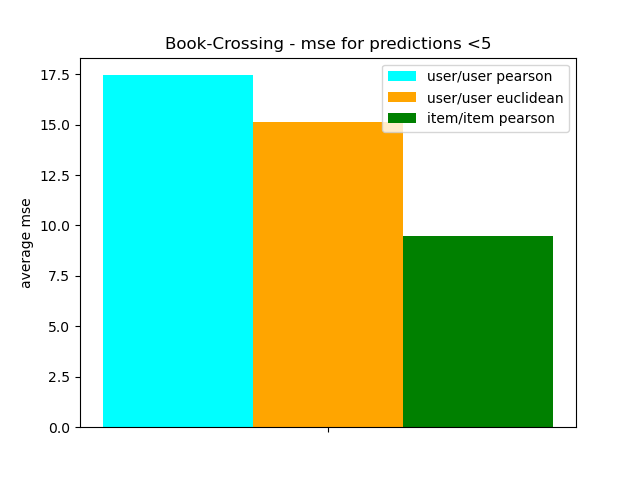
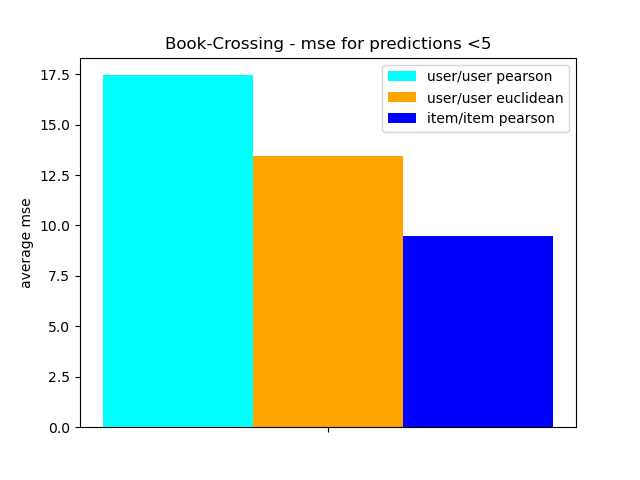
grafics

Changed region(s): [[0.625, 0.4688, 0.875, 0.9062], [0.375, 0.2188, 0.6562, 0.3438]]

diff --git a/create_plots.py b/create_plots.py
@@ -46,23 +46,6 @@ def main():
         plt.title('MovieLens - MAE distribution')
         plt.show()
 
-        x = np.arange(len(results_b[0][0].values[:, 0]))
-        plt.bar(x-width, results_b[0][0].values[:, 1], width, color='cyan')
-        plt.bar(x,       results_b[1][0].values[:, 1], width, color='orange')
-        plt.bar(x+width, results_b[2][0].values[:, 1], width, color='green')
-        plt.xticks(x, results_b[0][0].values[:, 0])
-        plt.legend(["user/user pearson", "user/user euclidean", "item/item pearson"])
-        plt.title('Book-Crossing')
-        plt.show()
-        x = np.arange(len(results_b[0][1].values[:, 0]))
-        plt.bar(x-width, results_b[0][1].values[:, 1], width, color='cyan')
-        plt.bar(x,       results_b[1][1].values[:, 1], width, color='orange')
-        plt.bar(x+width, results_b[2][1].values[:, 1], width, color='green')
-        plt.xticks(x, results_b[0][1].values[:, 0])
-        plt.legend(["user/user pearson", "user/user euclidean", "item/item pearson"])
-        plt.title('Book-Crossing')
-        plt.show()
-
         thr = 2.5
         mask = results_m[0][3].loc[0].values[1:] <= thr
         vals = results_m[0][3].values[1:, 1:]
@@ -92,35 +75,52 @@ def main():
         plt.title('MovieLens - mse for predictions <'+str(thr))
         plt.show()
 
-        thr = 5
-        mask = results_b[0][3].loc[0].values[1:] <= thr
-        vals = results_b[0][3].values[1:, 1:]
-        vals = vals[:, mask]
-        mse_4u = (vals[0, :] * vals[3, :]).sum() / vals[0, :].sum()
-        mask = results_b[1][3].loc[0].values[1:] <= thr
-        vals = results_b[1][3].values[1:, 1:]
-        vals = vals[:, mask]
-        mse_4ue = (vals[0, :] * vals[3, :]).sum() / vals[0, :].sum()
-        mask = results_b[2][3].loc[0].values[1:] <= thr
-        vals = results_b[2][3].values[1:, 1:]
-        vals = vals[:, mask]
-        mse_4i = (vals[0, :] * vals[3, :]).sum() / vals[0, :].sum()
+    thr = 8
+    mask = results_b[0][3].loc[0].values[1:] >= thr
+    vals = results_b[0][3].values[1:, 1:]
+    vals = vals[:, mask]
+    mse_4u = (vals[0, :] * vals[3, :]).sum() / vals[0, :].sum()
+    mask = results_b[1][3].loc[0].values[1:] >= thr
+    vals = results_b[1][3].values[1:, 1:]
+    vals = vals[:, mask]
+    mse_4ue = (vals[0, :] * vals[3, :]).sum() / vals[0, :].sum()
+    mask = results_b[2][3].loc[0].values[1:] >= thr
+    vals = results_b[2][3].values[1:, 1:]
+    vals = vals[:, mask]
+    mse_4i = (vals[0, :] * vals[3, :]).sum() / vals[0, :].sum()
 
-        x = np.arange(1)
-        plt.bar(x - width, mse_4u, width, color='cyan')
-        plt.bar(x, mse_4ue, width, color='orange')
-        plt.bar(x + width, mse_4i, width, color='green')
-        plt.xticks(x, [''])
-        plt.ylabel('average mse')
-        plt.legend(["user/user pearson", "user/user euclidean", "item/item pearson"])
-        plt.title('Book-Crossing - mse for predictions <' + str(thr))
-        plt.show()
+    x = np.arange(1)
+    plt.bar(x - width, mse_4u, width, color='cyan')
+    plt.bar(x, mse_4ue, width, color='orange')
+    plt.bar(x + width, mse_4i, width, color='blue')
+    plt.xticks(x, [''])
+    plt.ylabel('average mse')
+    plt.legend(["user/user pearson", "user/user euclidean", "item/item pearson"])
+    plt.title('Book-Crossing - mse for predictions >' + str(thr))
+    plt.show()
+
+    x = np.arange(len(results_b[0][0].values[:, 0]))
+    plt.bar(x - width, results_b[0][0].values[:, 1], width, color='cyan')
+    plt.bar(x, results_b[1][0].values[:, 1], width, color='orange')
+    plt.bar(x + width, results_b[2][0].values[:, 1], width, color='blue')
+    plt.xticks(x, results_b[0][0].values[:, 0])
+    plt.legend(["user/user pearson", "user/user euclidean", "item/item pearson"])
+    plt.title('Book-Crossing')
+    plt.show()
+    x = np.arange(len(results_b[0][1].values[:, 0]))
+    plt.bar(x - width, results_b[0][1].values[:, 1], width, color='cyan')
+    plt.bar(x, results_b[1][1].values[:, 1], width, color='orange')
+    plt.bar(x + width, results_b[2][1].values[:, 1], width, color='blue')
+    plt.xticks(x, results_b[0][1].values[:, 0])
+    plt.legend(["user/user pearson", "user/user euclidean", "item/item pearson"])
+    plt.title('Book-Crossing')
+    plt.show()
 
     mask = [str(a) for a in np.arange(1., 11., 1)]
     x = np.arange(len(mask))
     plt.bar(x-width, results_b[0][2][mask].values[4], width, color='cyan')
     plt.bar(x,       results_b[1][2][mask].values[4], width, color='orange')
-    plt.bar(x+width, results_b[2][2][mask].values[4], width, color='green')
+    plt.bar(x+width, results_b[2][2][mask].values[4], width, color='blue')
     plt.xticks(x, mask)
     plt.legend(["user/user pearson", "user/user euclidean", "item/item pearson"])
     plt.title('Book-Crossing - MSE distribution')
@@ -129,7 +129,7 @@ def main():
     x = np.arange(len(mask))
     plt.bar(x-width, results_b[0][2][mask].values[6], width, color='cyan')
     plt.bar(x,       results_b[1][2][mask].values[6], width, color='orange')
-    plt.bar(x+width, results_b[2][2][mask].values[6], width, color='green')
+    plt.bar(x+width, results_b[2][2][mask].values[6], width, color='blue')
     plt.xticks(x, mask)
     plt.legend(["user/user pearson", "user/user euclidean", "item/item pearson"])
     plt.title('Book-Crossing - MAE distribution')
